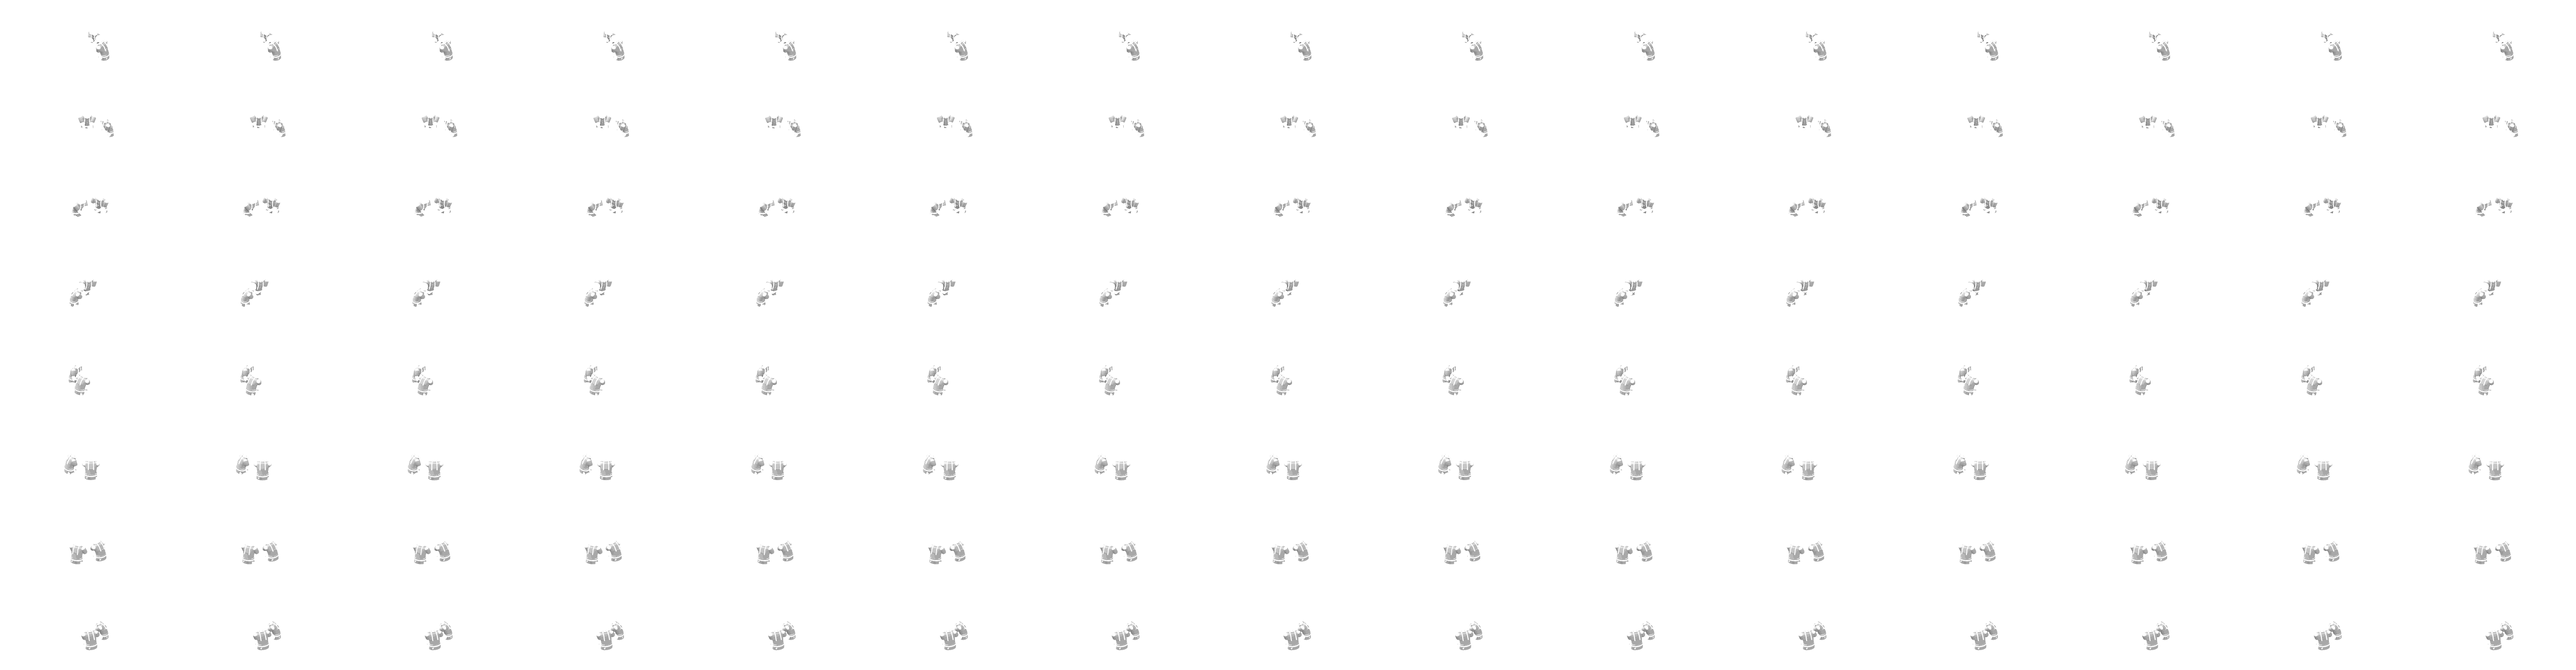
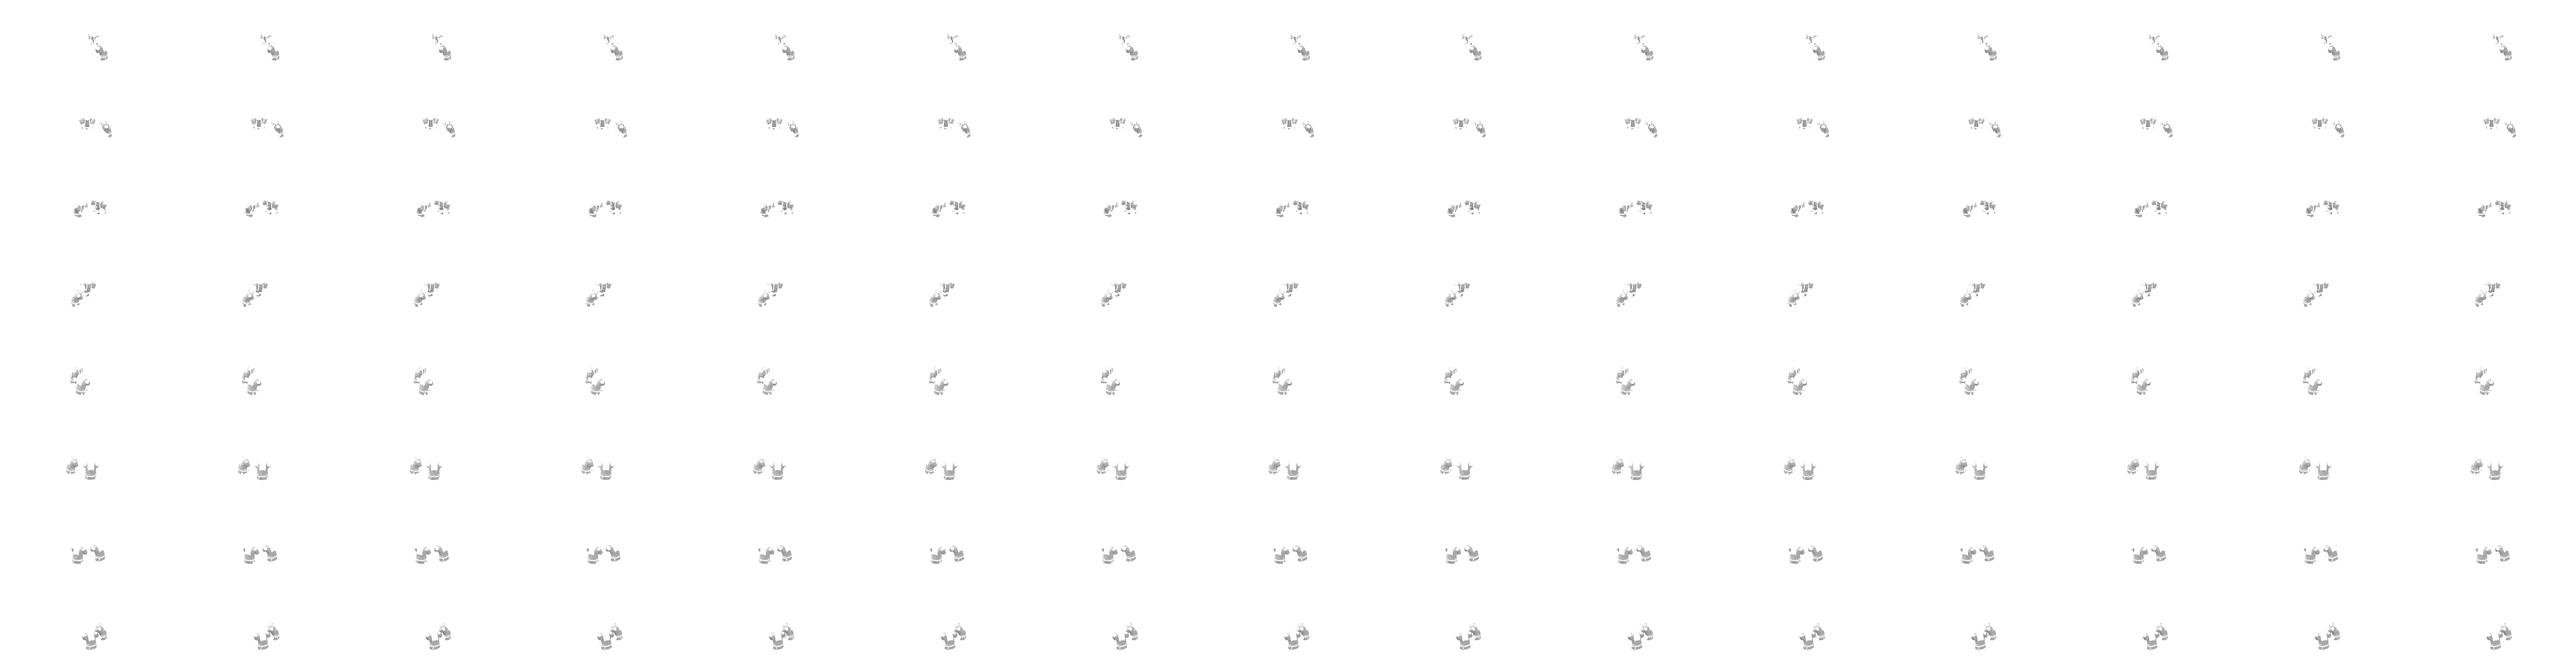
Battalion round 2: the stock Infantry's field pack on both men (no bare civ-colour backs), scaled to the stock Infantry's height; sheets rebuilt

diff --git a/ArtGen/units/catalog/modern_mod_foot.py b/ArtGen/units/catalog/modern_mod_foot.py
@@ -159,12 +159,14 @@ UNITS = {
     # belt from an open can.
     'Battalion': {
         'archetype': 'line_mg_team',
+        'scale': 0.92,
         'soldier': {
             'colors': {'skin': '#c89c74', 'hair': '#2a2018', 'helmet': '#5a5a46', 'trousers': '#6a5a44',
-                       'boots': '#4a3020', 'belt': '#7a7458', 'strap': '#7a7458', 'leggings': '#a8987a'},
+                       'boots': '#4a3020', 'belt': '#7a7458', 'strap': '#7a7458', 'leggings': '#a8987a',
+                       'pack': '#7a7058'},
             'tint': ['top'],
             'hair': 'short', 'hat': 'm1_net', 'top': 'sleeved', 'jacket': 'm41', 'legs': 'trousers',
-            'feet': 'shoes', 'leg_wear': 'leggings', 'straps': ['braces'],
+            'feet': 'shoes', 'leg_wear': 'leggings', 'straps': ['braces'], 'pack': 'field',
         },
         'gunner': {'kit': ['holster', 'canteen_ww2']},
         'assistant': {'kit': ['cartridge_belt', 'canteen_ww2']},
